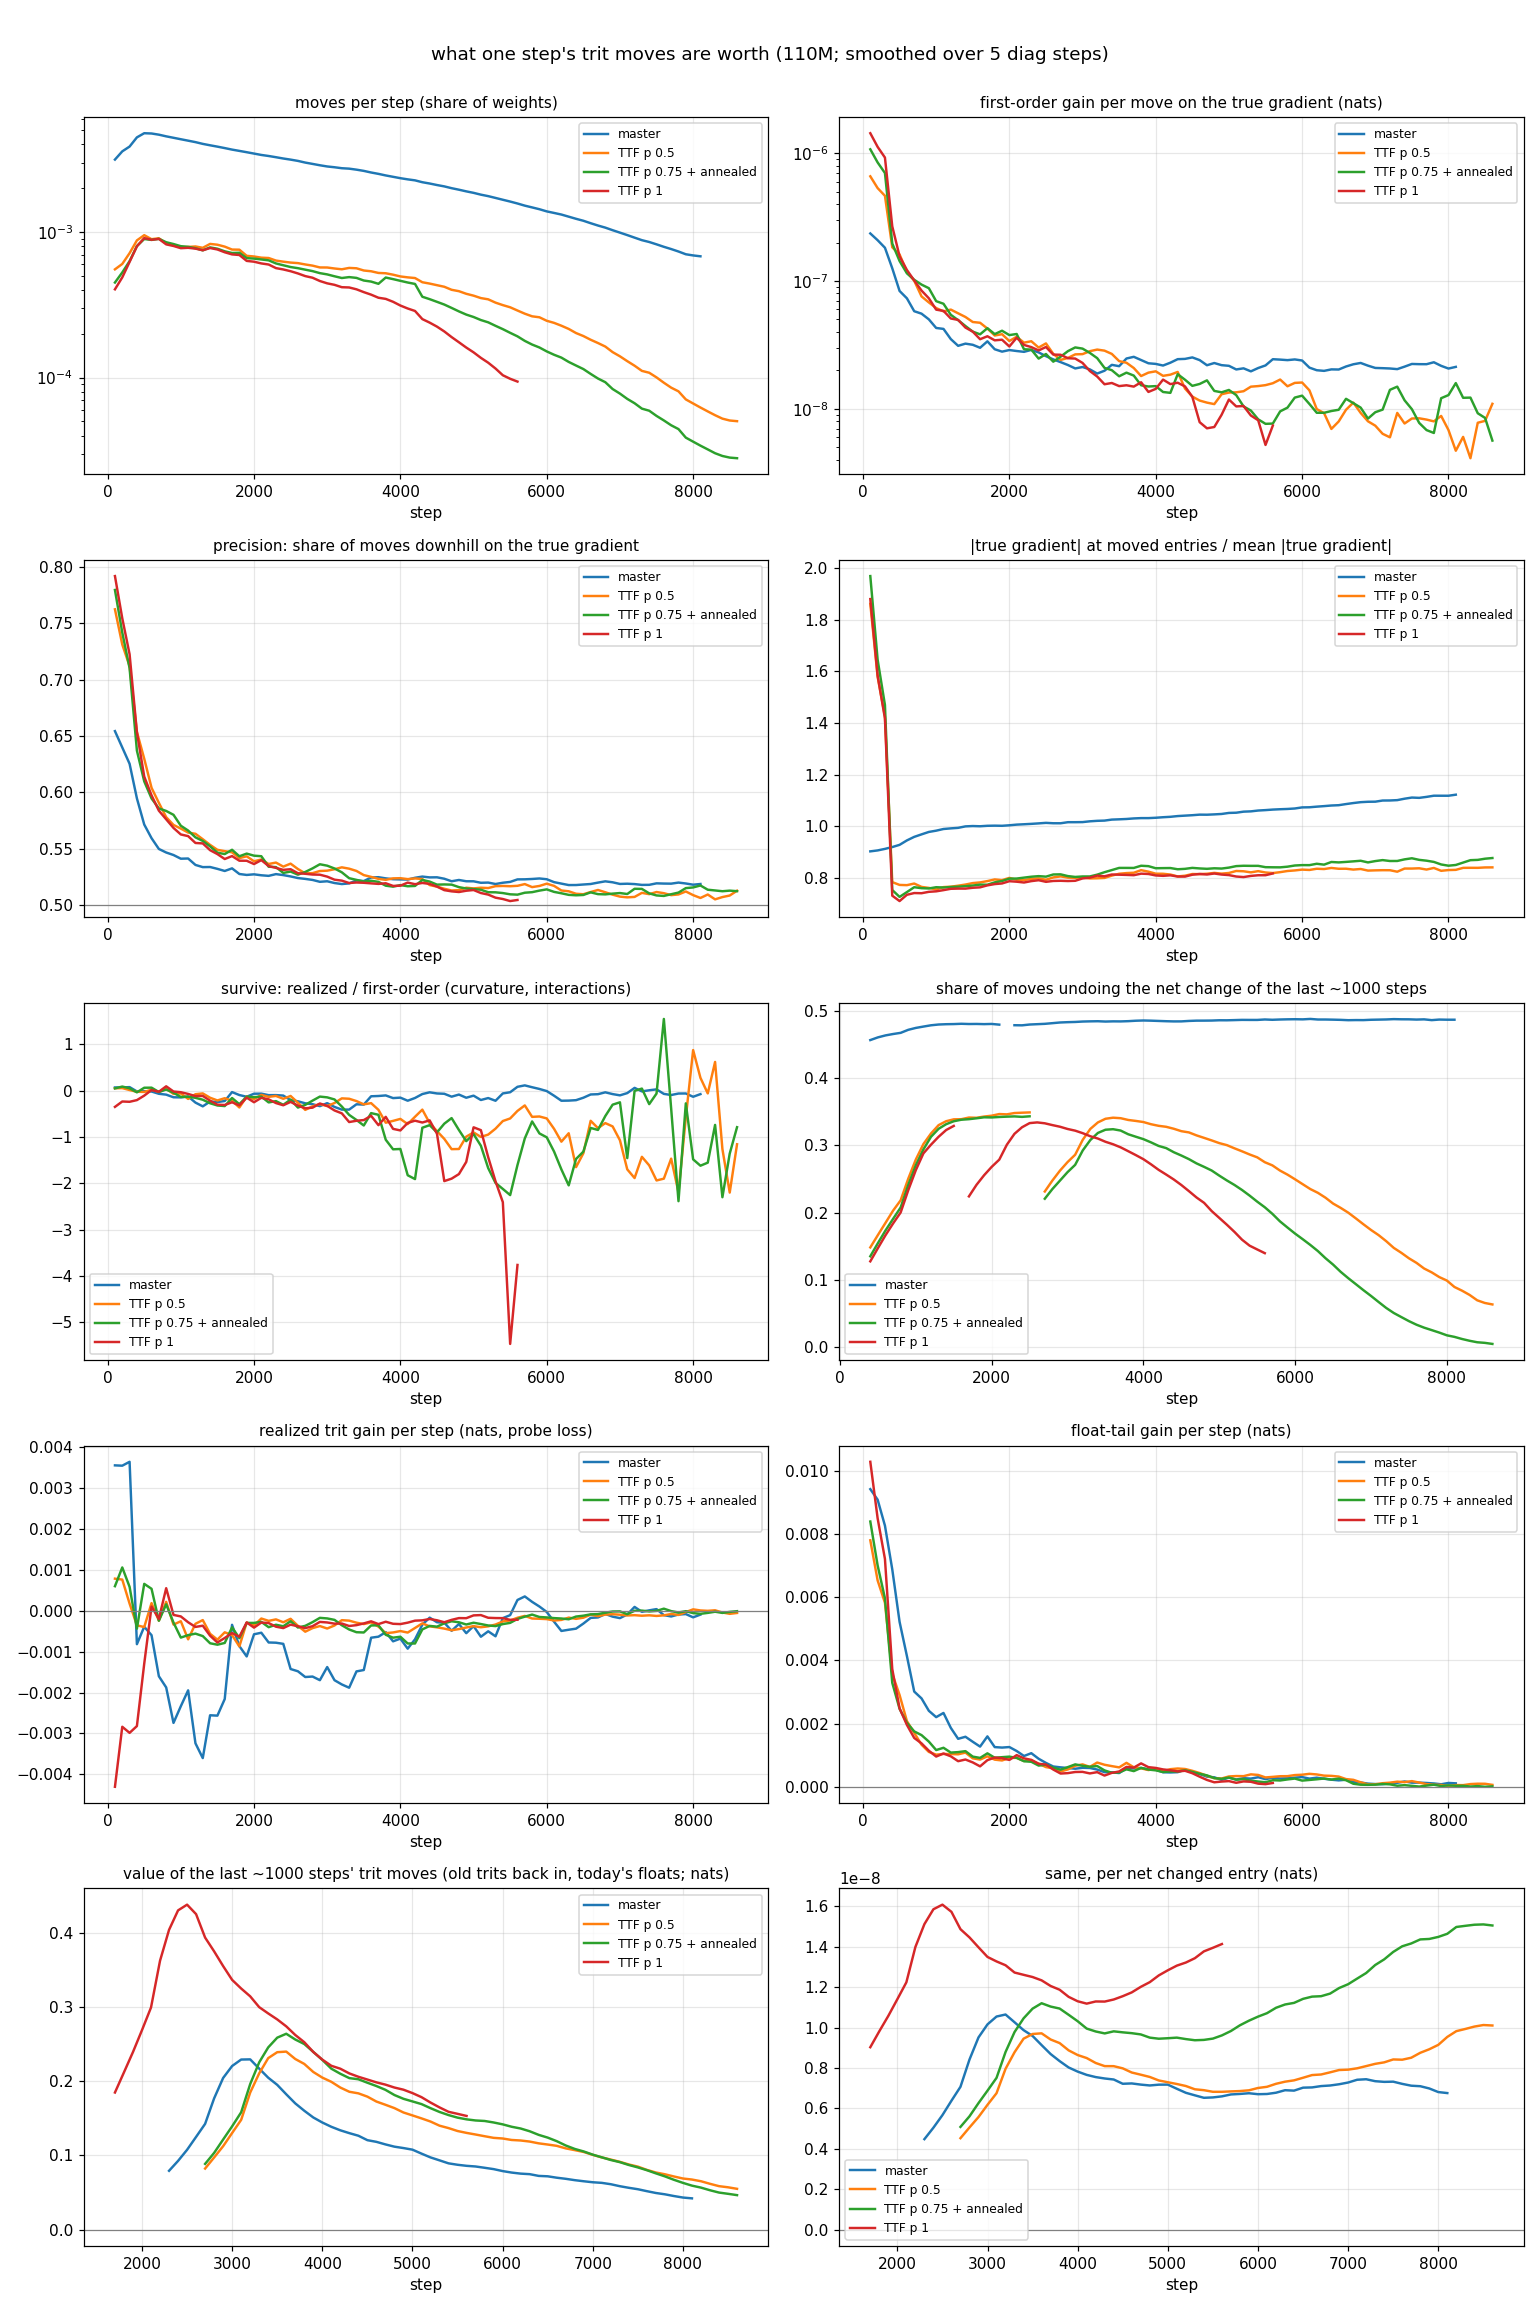
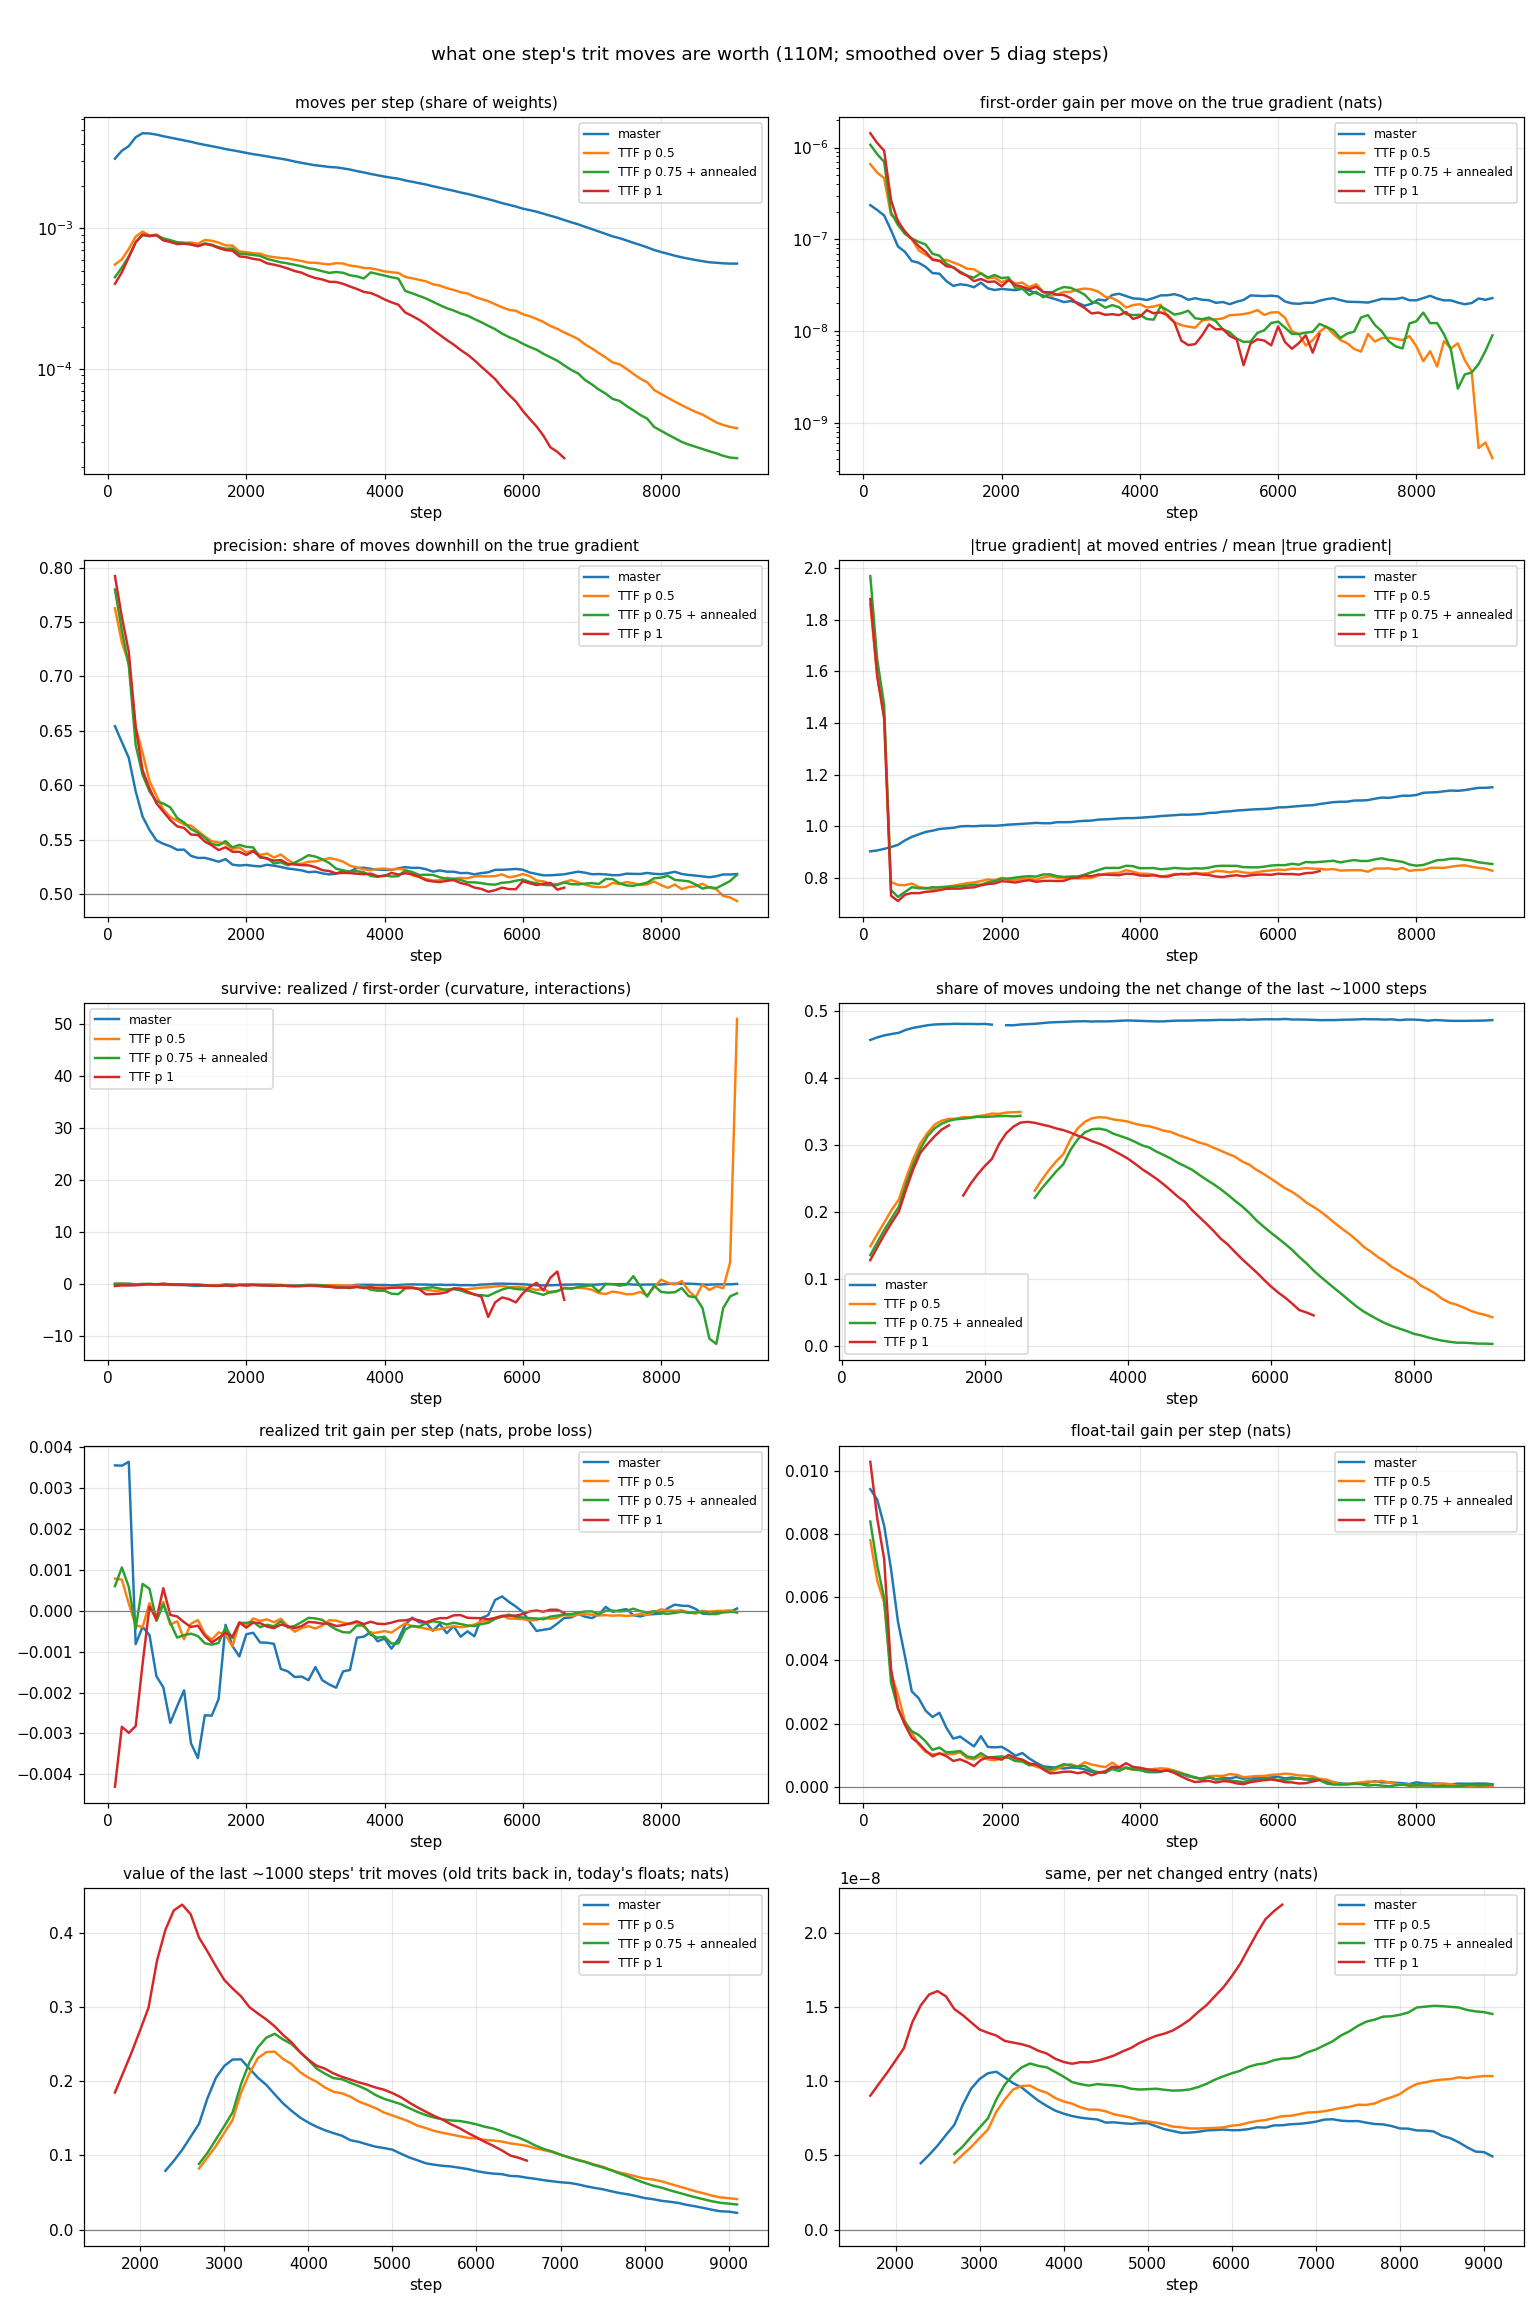
movediag: window gross moves from the window's own move rate (net/gross <= 1)

diff --git a/scripts/analysis/movediag_plot.py b/scripts/analysis/movediag_plot.py
@@ -77,9 +77,12 @@ for name, r in R.items():
         if not m.any():
             continue
         vps = np.nanmean(r["md_win_realized"][m] / r["md_win_age"][m])
-        mps = np.nanmean(r["md_moves"][m])
-        net = np.nanmean(r["md_win_net"][m] / (r["md_moves"][m] * r["md_win_age"][m]))
-        print(f"{name:8s} {lo}-{hi}: value/step {vps:+.2e}  moves/step {mps:9.0f}  value/move {vps / max(mps, 1):+.2e}"
+        # the window's gross moves: the mean sampled moves per step over (step - age, step], times age
+        gw = np.array([np.nanmean(r["md_moves"][(s > s_ - a_) & (s <= s_)]) * a_
+                       for s_, a_ in zip(s[m], r["md_win_age"][m])])
+        mps = np.nanmean(gw / r["md_win_age"][m])
+        net = np.nanmean(r["md_win_net"][m] / gw)
+        print(f"{name:8s} {lo}-{hi}: value/step {vps:+.2e}  moves/step {mps:9.0f}  value/move {np.nanmean(r["md_win_realized"][m] / gw):+.2e}"
               f"  net/gross {net:.2f}  precision {np.nanmean(r['md_precision'][m]):.3f}  |g| ratio {np.nanmean(r['md_g_ratio'][m]):.2f}")
 for name, r in R.items():
     s = r["step"]
